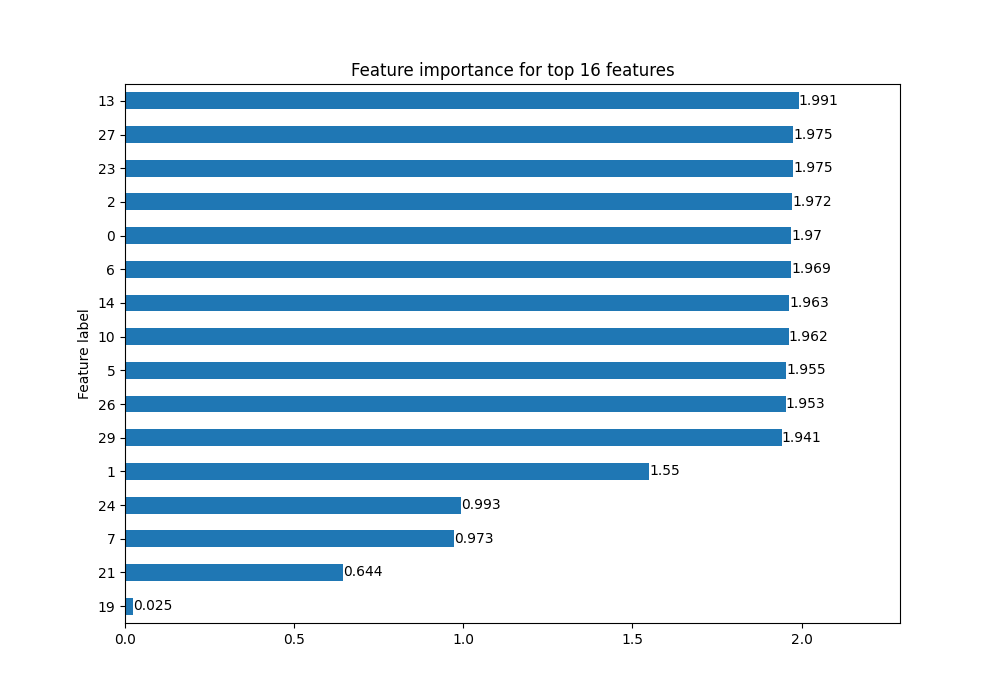
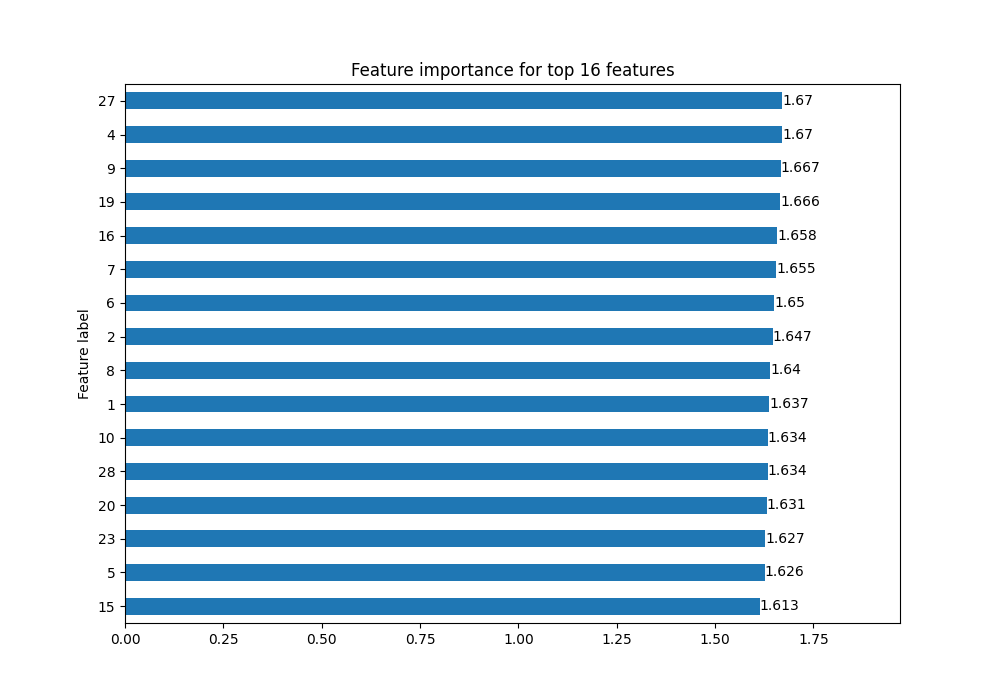
Add edge explanations

diff --git a/explain_hybrid.py b/explain_hybrid.py
@@ -1,7 +1,12 @@
 import torch
 from torch_geometric.explain import GNNExplainer, ExplainerConfig, ModelConfig, Explainer
 from model import MuCoMiD, MuCoMiDWrapper  # Import your model definition
+import matplotlib
+
+matplotlib.use('TkAgg')
 import matplotlib.pyplot as plt
+from utils import *
+import os  # Import the os module
 
 
 def plot_loss(loss_history):
@@ -14,45 +19,37 @@ def plot_loss(loss_history):
     plt.grid(True)
     plt.show()
 
-from utils import *
-import os  # Import the os module
 
-def visualize_feature_importance(explanation, node_idx, top_k=16):
-    path = f"explanations/top50_features_node{node_idx}.png"
+def visualize_feature_importance(explanation, idx, top_k=16, task="node"):
+    path = f"explanations/top{top_k}_features_{task}{idx}.png"
     # Ensure the directory exists before saving the file
     os.makedirs(os.path.dirname(path), exist_ok=True)
     explanation.visualize_feature_importance(path, top_k=top_k)
-    print(f"Feature importance plot for node {node_idx} has been saved to '{path}'")
+    print(f"Feature importance plot for {task} {idx} has been saved to '{path}'")
 
 
-
-def explain_model(model, data, device):
+def explain_model(model, data, device, task_level):
     model.eval()
 
     wrapper_model = MuCoMiDWrapper(model, data)
 
     model_config = ModelConfig(
         mode='regression',
-        task_level='node',
+        task_level=task_level,
         return_type='raw'
     )
 
     explainer = Explainer(
         model=wrapper_model,
-        algorithm=GNNExplainer(epochs=2000, lr=0.01),
+        algorithm=GNNExplainer(epochs=HYBRID_MODEL_EPOCH_COUNT, lr=0.01),
         explanation_type='model',
         node_mask_type='attributes',
         edge_mask_type='object',
         model_config=model_config
     )
 
-    # Choose a node indexes to explain
+    # Choose a node or edge index to explain
     ind = [1]
-
-    # Prepare the input data as required by GNNExplainer
-    # x = torch.cat((data["mirna_emb"], data["disease_emb"], data["pcg_emb"]), 0)
-    # edge_index = torch.cat((data["mirna_edgelist"], data["disease_edgelist"], data["ppi_edgelist"]), 0)
-    # edge_weight = torch.cat((data["mirna_edgeweight"], data["disease_edgeweight"], data["ppi_edgeweight"]), 0)
 
     # Explain the mirna embeddings, make sure to use the right settings in the wrapper too for this.
     x = data["mirna_emb"]
@@ -60,15 +57,15 @@ def explain_model(model, data, device):
 
     explanations = []
     gnn_explainer_feature_masks = []
-    for node_idx in ind:
-        explanation = explainer(x, edge_index, index=node_idx)
+    for idx in ind:
+        explanation = explainer(x, edge_index, index=idx)
         # Access the 'node_mask' attribute directly
         feature_mask = explanation.node_mask
         # Sum up the feature mask across all nodes to get the feature importance scores
         feature_importance = feature_mask.sum(dim=0)
         gnn_explainer_feature_masks.append(feature_importance)
         explanations.append(explanation)
-        visualize_feature_importance(explanation, node_idx)
+        visualize_feature_importance(explanation, idx, task=task_level)
 
     return explanations, gnn_explainer_feature_masks
 
@@ -82,7 +79,8 @@ def main():
     model.load_state_dict(load_hybrid_model())
 
     # Explain the model
-    _, _ = explain_model(model, data, device)
+    _, _ = explain_model(model, data, device, task_level='node')
+    _, _ = explain_model(model, data, device, task_level='edge')
 
 
 if __name__ == "__main__":

diff --git a/eval_hybrid.py b/eval_hybrid.py
@@ -90,7 +90,7 @@ def main():
 
     train_losses, test_losses, test_accuracies = list(), list(), list()
 
-    for epoch in range(0, 200):
+    for epoch in range(0, HYBRID_MODEL_EPOCH_COUNT):
         model.train()
         model.zero_grad()
         assoc_out, mirna_pcg_out, disease_pcg_out = model(data, data["train_tensor"])

diff --git a/utils.py b/utils.py
@@ -216,6 +216,7 @@ def get_device():
 
 ## SAVING AND LOADING MODELS
 HYBRID_MODEL_PATH = "trained_models"
+HYBRID_MODEL_EPOCH_COUNT = 200
 
 
 def get_hybrid_model_path():
